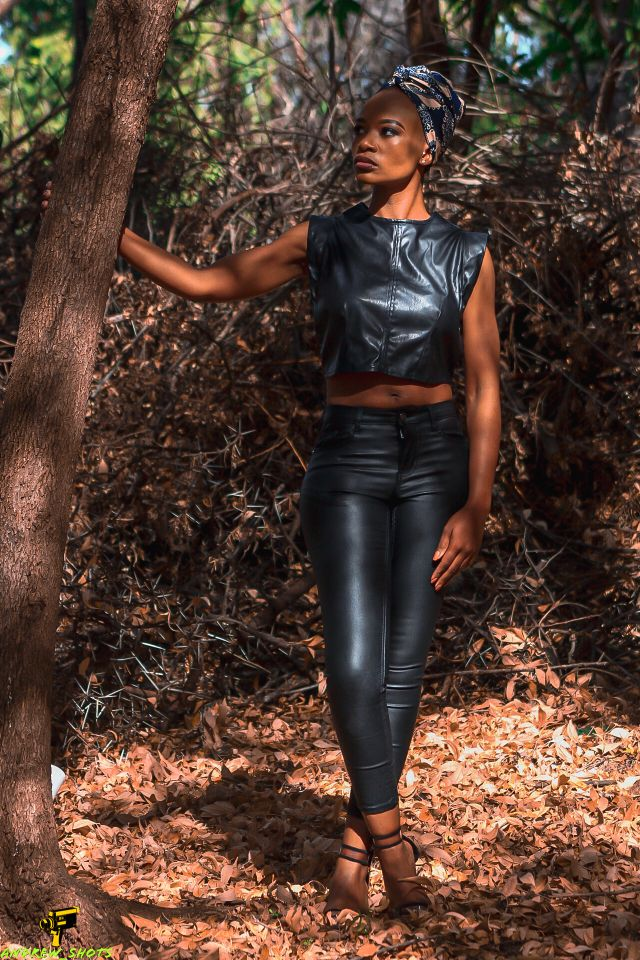
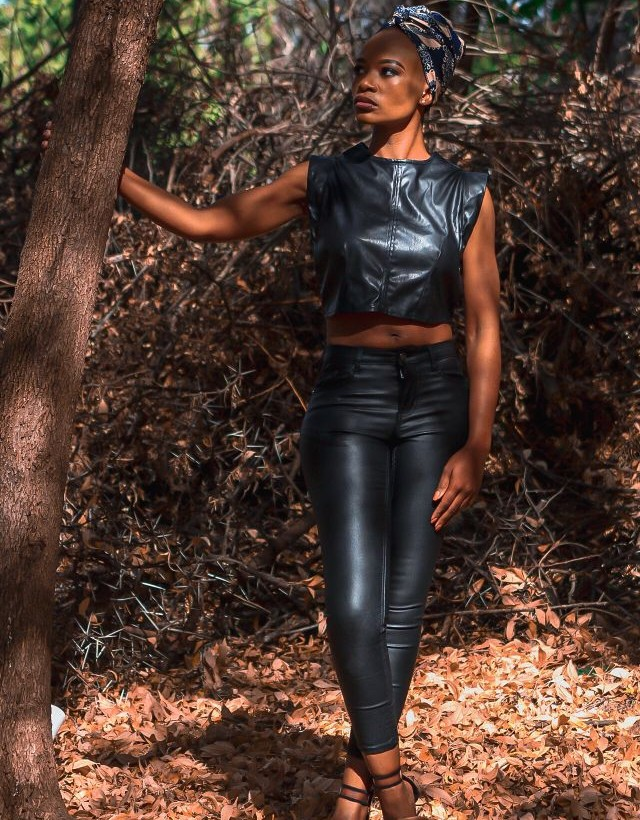
Last Update

diff --git a/src/Sections/tma/Containers/OurModels/OurModel.js b/src/Sections/tma/Containers/OurModels/OurModel.js
@@ -14,11 +14,14 @@ const OurModel = (props) => {
                                         {props.name}
                                     </h4>
                                 </div>
-                                <img 
-                                    src={props.pic}
-                                    className="img-responsive"
-                                    alt={props.name}
-                                />{" "}
+                                <div className="img-container">
+                                    <img 
+                                        src={props.pic}
+                                        className="img-responsive"
+                                        alt={props.name}
+                                    />{" "}
+
+                                </div>
                             </a>{" "}
                 </div>
             </div>

diff --git a/public/css/style.css b/public/css/style.css
@@ -572,6 +572,14 @@ color: #777;
 	border-bottom: 2px solid #608dfd;
 }
 
+.img-container{
+	display: flex;
+	justify-content: center;
+	align-items: center;
+	width: 389px;
+	height: 486px;
+}
+
 @media (max-width: 768px) {
 #about img {
 	margin: 50px 0;
